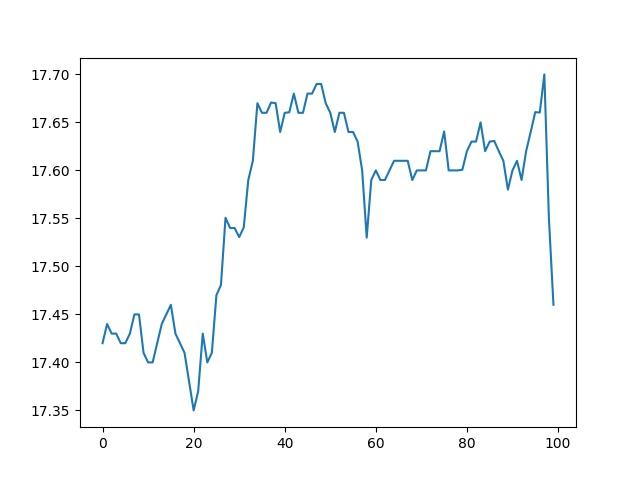
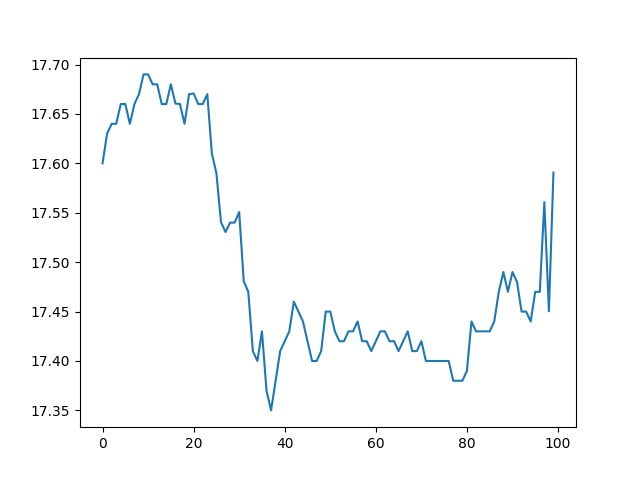
Generate

diff --git a/V1.0/request_http.py b/V1.0/request_http.py
@@ -22,7 +22,7 @@ def gerador():
         for i in range(len(open)):
             valor.append(i)
 
-        plt.plot(valor,open)
+        plt.plot(valor,open[::-1])
         plt.savefig('images/'+'c'+str(tot)+'books_read.jpeg')
         plt.show()
 
